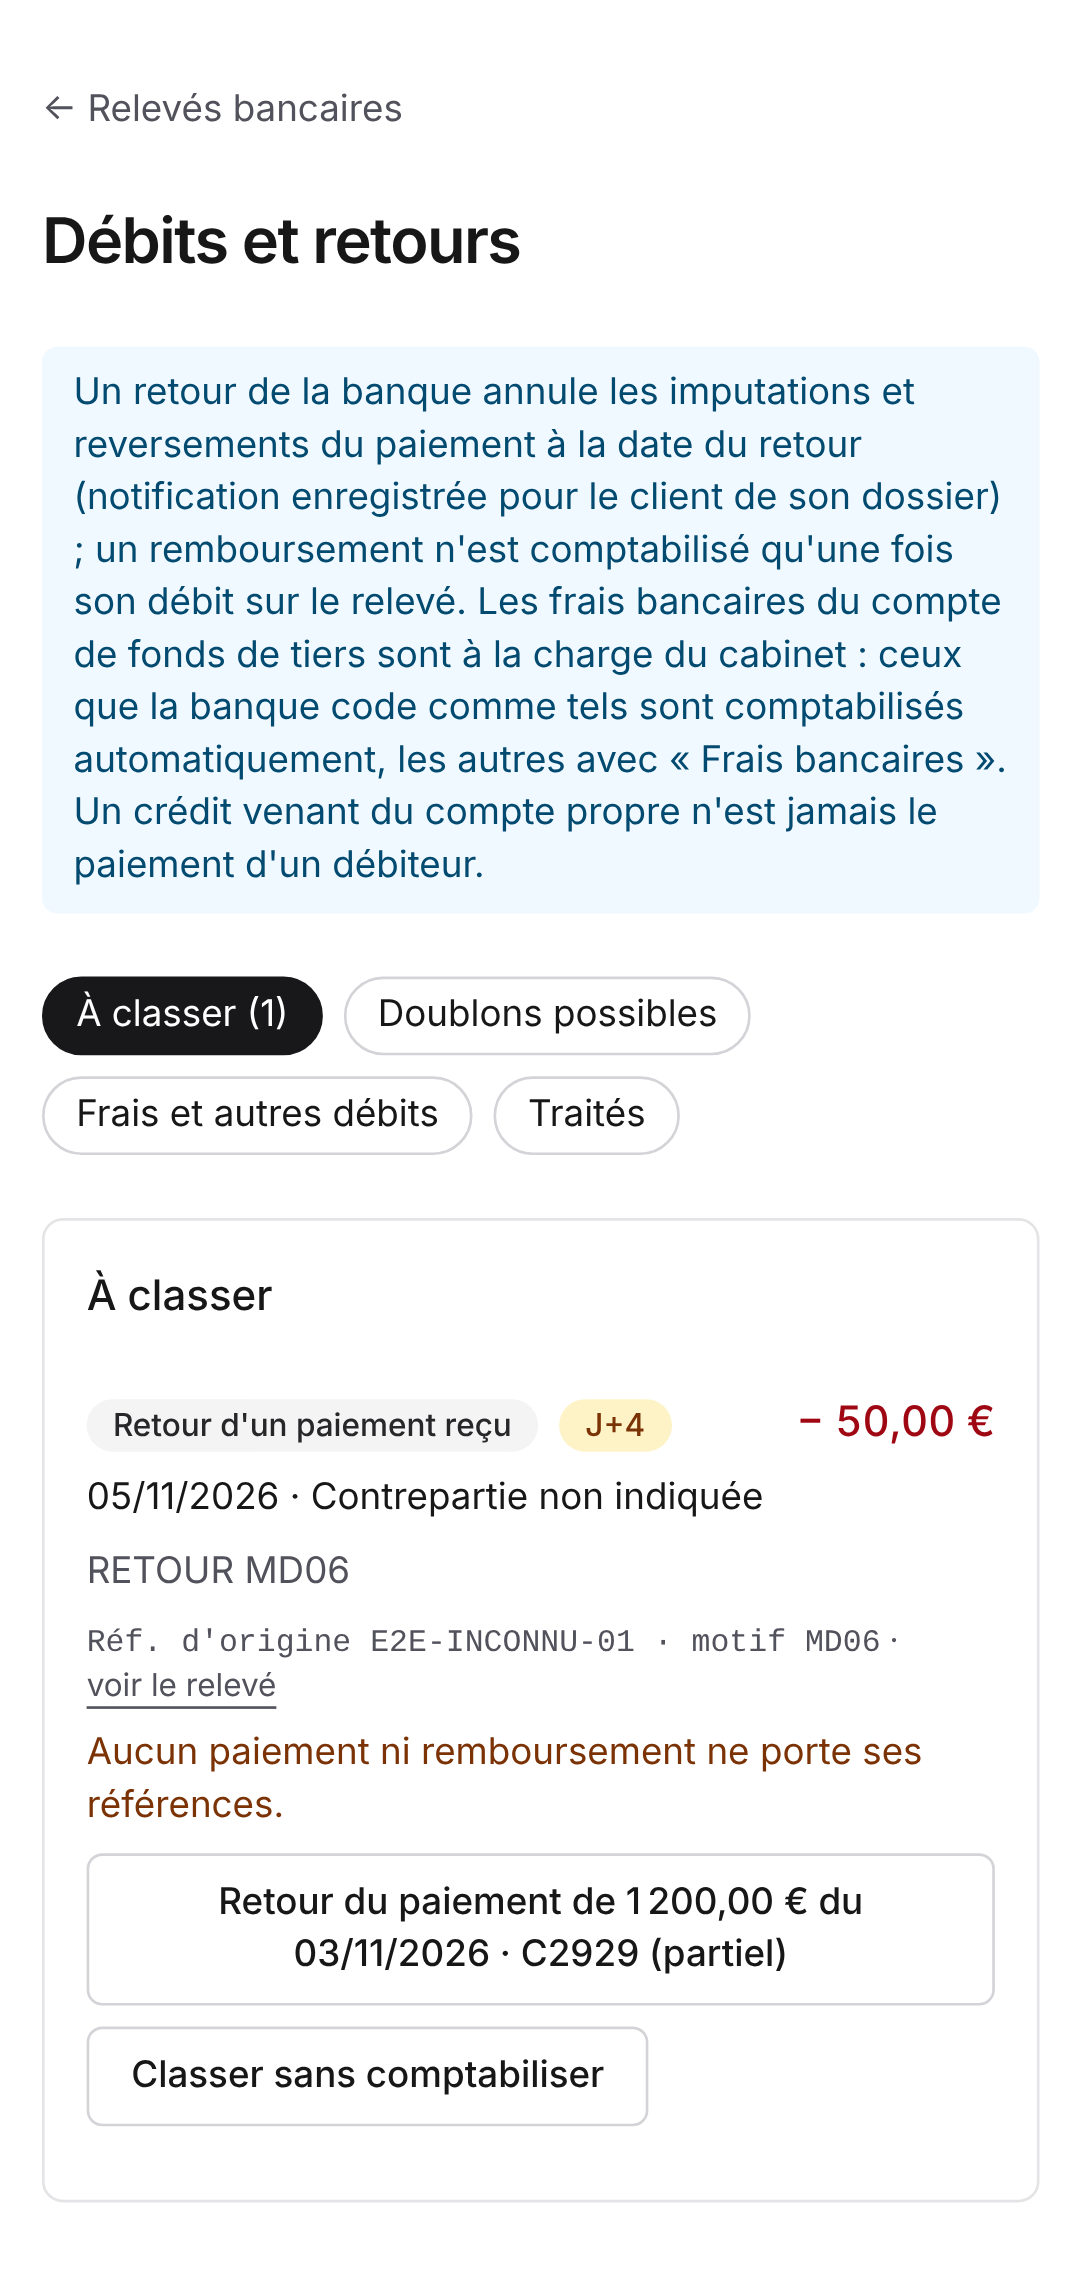
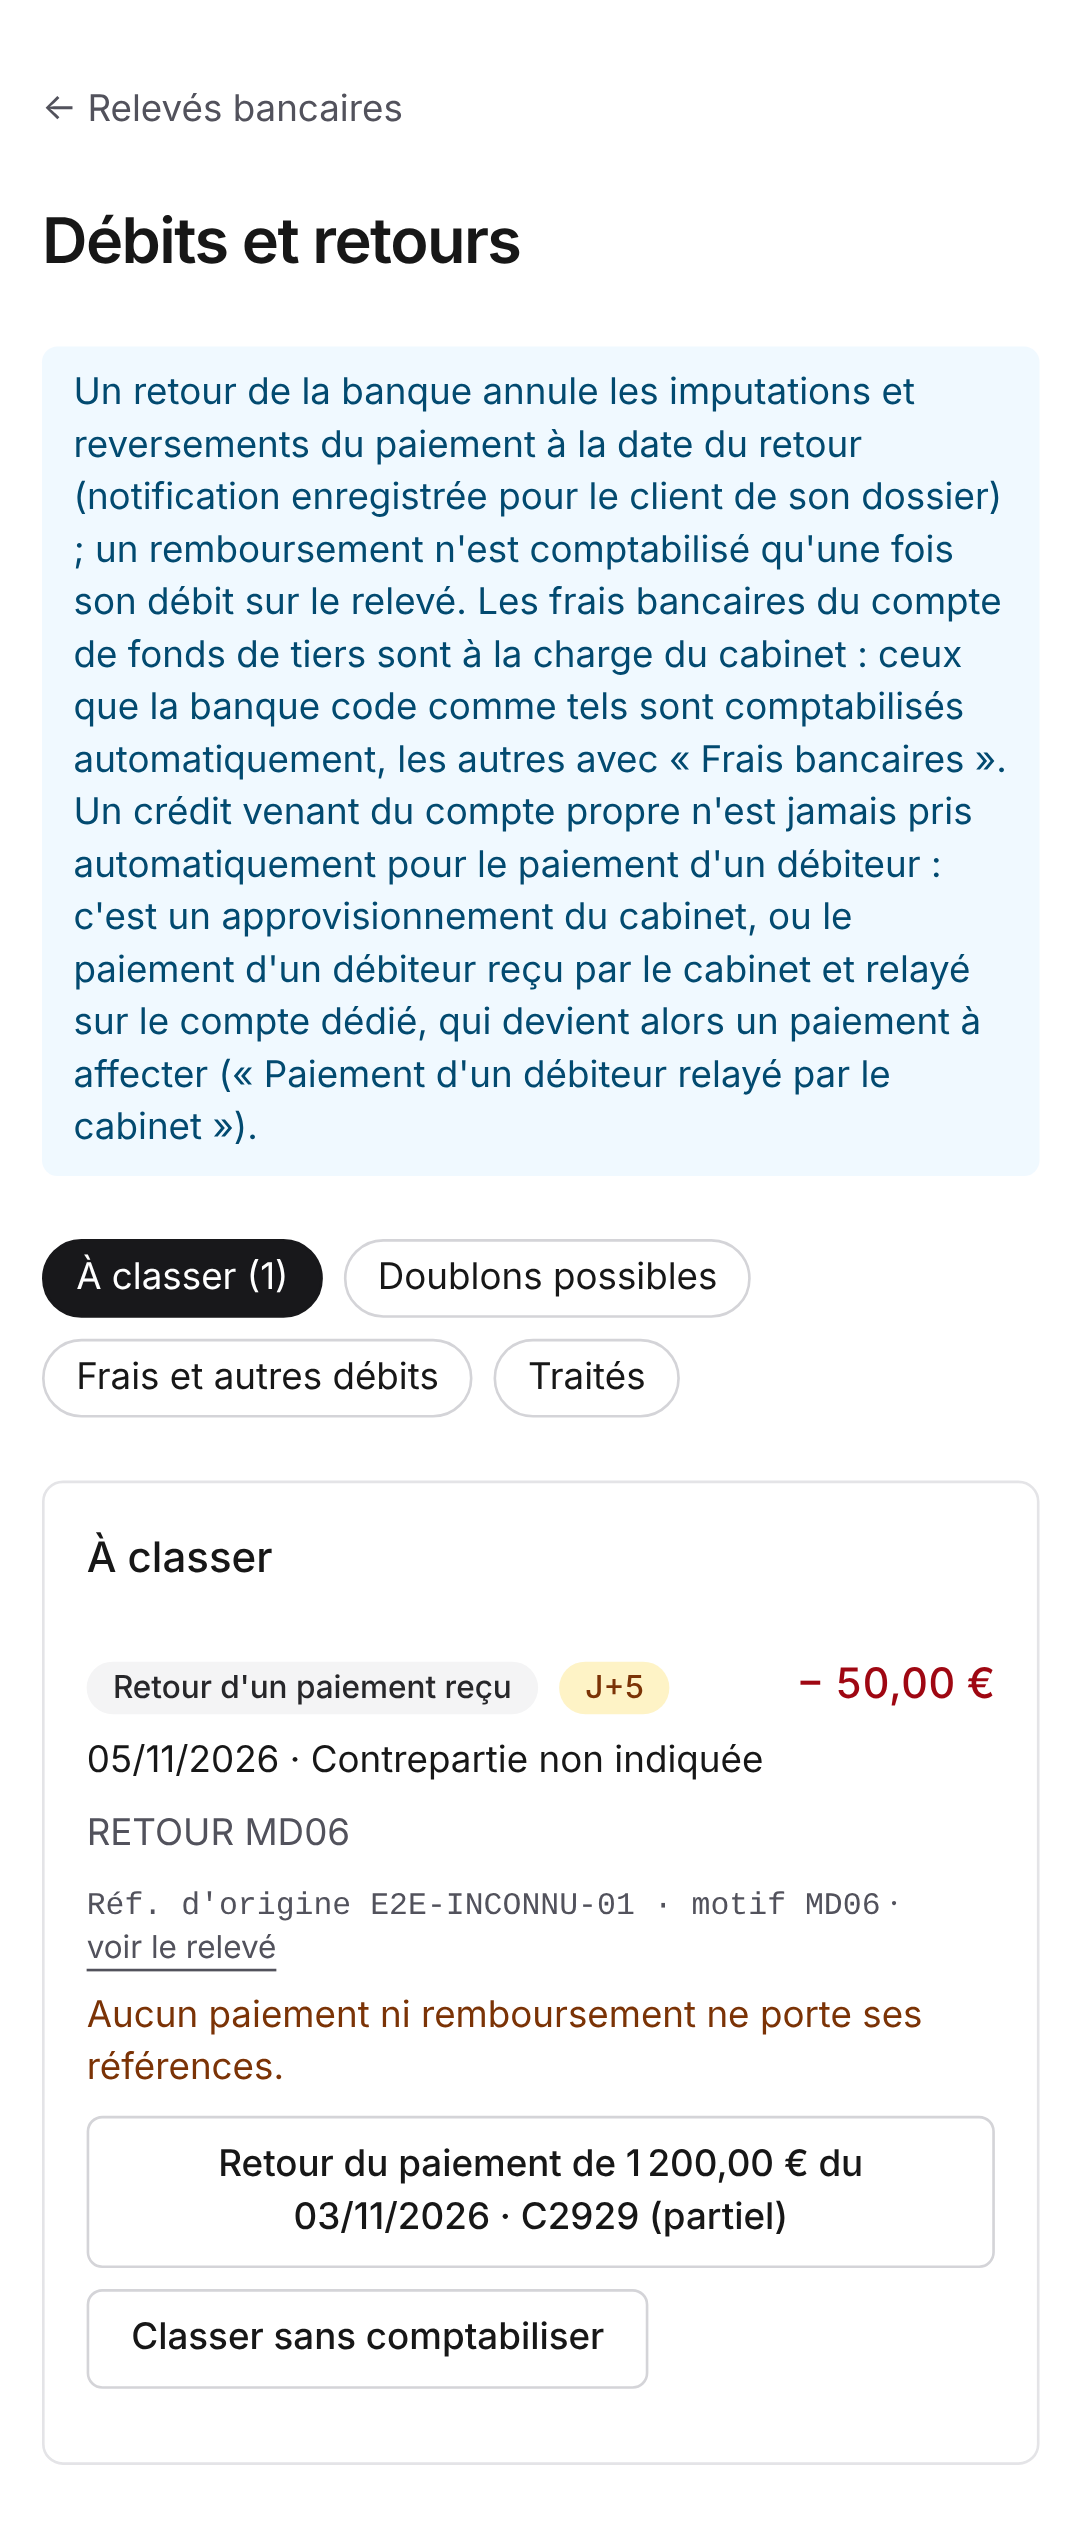
E2E: M2c-1 specs green (own-credit spec sets the account's purpose; the checks now ask for a top-up after bank fees); screenshots of the pages M2c-1 changed
Claude-Session: https://claude.ai/code/session_01FxRQS6WSwQH1ctn7nhDETM

Changed region(s): [[0.0305, 0.1243, 0.915, 0.9326], [0.0305, 0.0311, 0.488, 0.1243], [0.7625, 0.6217, 0.915, 0.6839]]

diff --git a/apps/web/e2e/payments-debits.spec.ts b/apps/web/e2e/payments-debits.spec.ts
@@ -231,7 +231,9 @@ test("refund, bank return, lines to classify, direct payment and the checks", as
     )
     .toBe(1);
   await expect(page.getByTestId("check-violations")).toContainText("0");
-  await expect(page.getByTestId("check-clean")).toBeVisible();
+  // M2c-1: the bank fees booked on the dedicated account are the servicer's cost: the checks ask for a top-up from the
+  // own account (an alert, not a violation)
+  await expect(page.getByTestId("check-results")).toContainText("Approvisionnement du compte dédié à demander");
   await reviewShot(page, testInfo, "m2-payment-checks");
 
   // the client was told of the return (R124-5; founder #13)

diff --git a/apps/web/e2e/funds-own-credits.spec.ts b/apps/web/e2e/funds-own-credits.spec.ts
@@ -28,6 +28,7 @@ test.beforeAll(async () => {
       iban: BANK_IBAN,
       currency: "EUR",
       label: "Fonds de tiers – Banque F",
+      purpose: "client_funds", // a bulk insert sends every column: unset ones would be null, not their default
       feed: "camt053",
       opened_on: "2026-01-01",
     },
